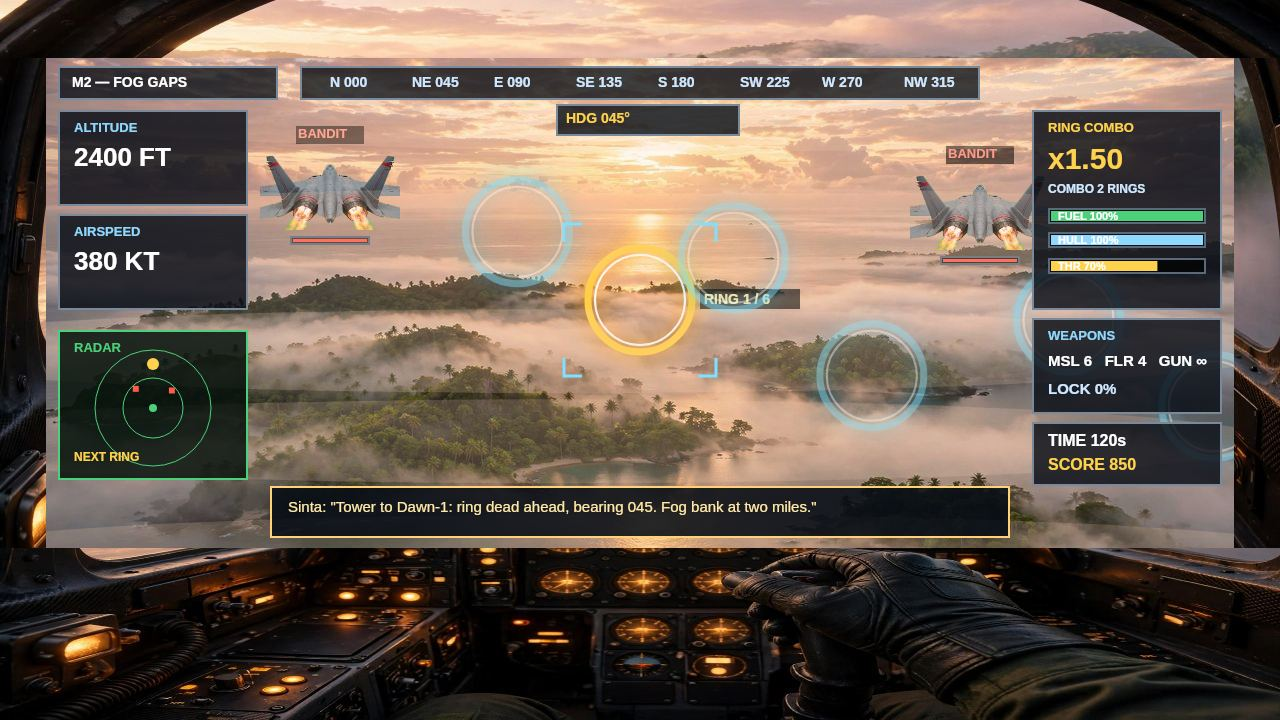
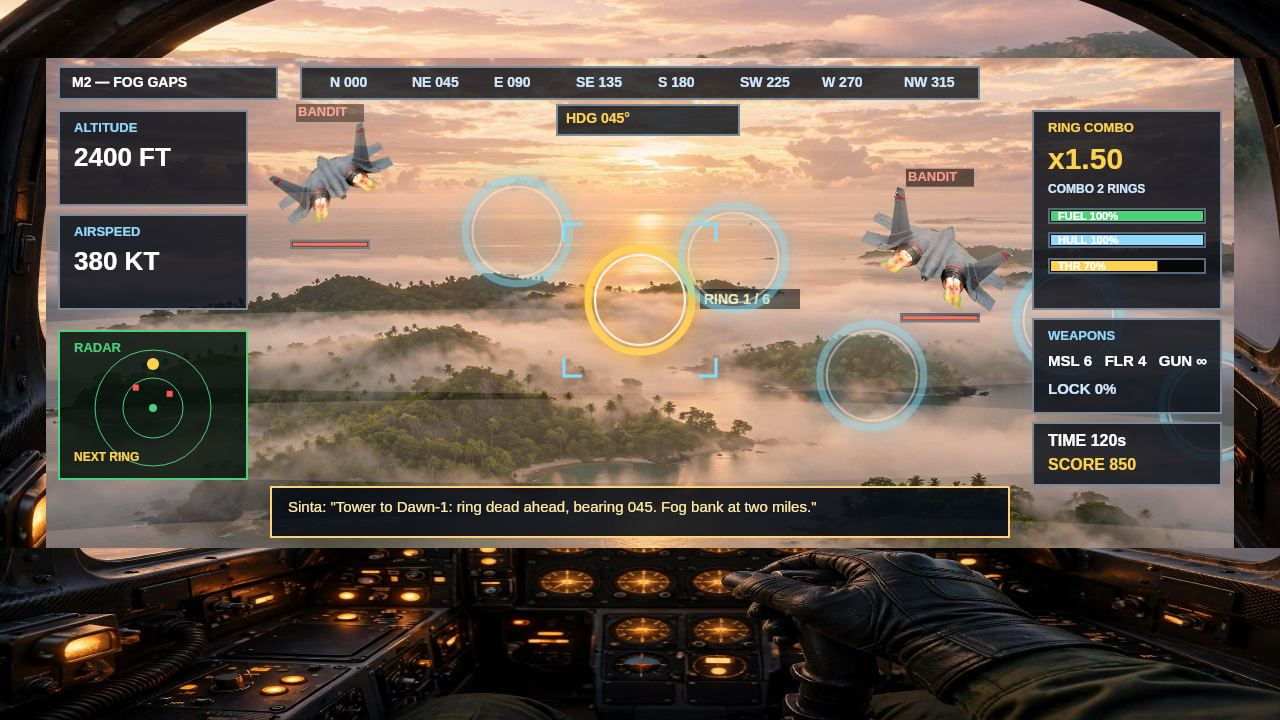
DAWN FALCON — surgical fix 2: distinct bandit poses per shot; shot-3 real battle with big red LOCK-FIRE bracket + missile on a white trail; destroyed bandit fireball stands alone

Changed region(s): [[0.6562, 0.1833, 0.8125, 0.4583], [0.1875, 0.1222, 0.3125, 0.3667]]

diff --git a/game/src/render.js b/game/src/render.js
@@ -88,14 +88,24 @@
       }
       ctx.restore();
     });
-    // enemies
+    // enemies (posed = staged shots only: rot/scale/flip set by shots.js; gameplay enemies draw exactly as before)
     f.enemies.forEach(function (e) {
       if (!e.alive) return;
       var spr = e.ghost ? 'jet-ghost.png' : 'jet-enemy.png';
-      drawImg(ctx, img(spr), e.x - 70, e.y - 40, 140, 80);
-      ctx.fillStyle = 'rgba(0,0,0,0.55)'; ctx.fillRect(e.x - 34, e.y - 64, 68, 18);
-      txt(ctx, e.ghost ? 'GHOST' : 'BANDIT', e.x - 32, e.y - 62, 13, e.ghost ? '#e8e8f2' : '#ff9a8a', 'left', true);
-      bar(ctx, e.x - 40, e.y + 46, 80, 9, e.hp / (e.ghost ? 5 : 2), '#ff5a4a', '');
+      var posed = !!(e.rot || e.scale || e.flip);
+      if (posed) {
+        var sc = e.scale || 1, rot = e.rot || 0, fl = e.flip || 1;
+        ctx.save(); ctx.translate(e.x, e.y); ctx.rotate(rot); ctx.scale(fl * sc, sc);
+        drawImg(ctx, img(spr), -70, -40, 140, 80);
+        ctx.restore();
+      } else drawImg(ctx, img(spr), e.x - 70, e.y - 40, 140, 80);
+      // rotated sprite corners stick out: lift label/bar clear of the sprite, keep label below the compass strip, bar above the dialogue box
+      var lift = posed ? Math.abs(Math.sin(e.rot || 0)) * 36 : 0;
+      var ly = posed ? Math.max(e.y - 64 - lift, 104) : e.y - 64;
+      ctx.fillStyle = 'rgba(0,0,0,0.55)'; ctx.fillRect(e.x - 34, ly, 68, 18);
+      txt(ctx, e.ghost ? 'GHOST' : 'BANDIT', e.x - 32, ly + 2, 13, e.ghost ? '#e8e8f2' : '#ff9a8a', 'left', true);
+      var by = posed ? Math.min(e.y + 46 + lift, 471) : e.y + 46;
+      bar(ctx, e.x - 40, by, 80, 9, e.hp / (e.ghost ? 5 : 2), '#ff5a4a', '');
     });
     // boats
     f.boats.forEach(function (b) {
@@ -104,11 +114,26 @@
       ctx.fillStyle = 'rgba(0,0,0,0.55)'; ctx.fillRect(b.x - 44, b.y - 32, 88, 18);
       txt(ctx, 'RAIDER BOAT', b.x - 42, b.y - 30, 12, '#ff9a8a', 'left', true);
     });
-    // missiles
+    // missiles (staged shot 3: long white trail aimed at the lock target + MISSILE label)
     f.missilesFired.forEach(function (mm) {
-      ctx.strokeStyle = '#fff'; ctx.lineWidth = 2;
-      ctx.beginPath(); ctx.moveTo(mm.x - 26, mm.y + 14); ctx.lineTo(mm.x, mm.y); ctx.stroke();
-      ctx.fillStyle = '#ffd24d'; ctx.beginPath(); ctx.arc(mm.x, mm.y, 5, 0, Math.PI * 2); ctx.fill();
+      if (f.bigLock && mm.target) {
+        var dx = mm.x - mm.target.x, dy = mm.y - mm.target.y, dd = Math.hypot(dx, dy) || 1;
+        var tx = mm.x + dx / dd * 85, ty = mm.y + dy / dd * 85;
+        ctx.save();
+        ctx.strokeStyle = 'rgba(255,255,255,0.35)'; ctx.lineWidth = 6;
+        ctx.beginPath(); ctx.moveTo(tx, ty); ctx.lineTo(mm.x, mm.y); ctx.stroke();
+        ctx.strokeStyle = '#fff'; ctx.lineWidth = 3;
+        ctx.beginPath(); ctx.moveTo(tx, ty); ctx.lineTo(mm.x, mm.y); ctx.stroke();
+        ctx.restore();
+        ctx.fillStyle = '#ffd24d'; ctx.beginPath(); ctx.arc(mm.x, mm.y, 6, 0, Math.PI * 2); ctx.fill();
+        ctx.fillStyle = '#fff'; ctx.beginPath(); ctx.arc(mm.x, mm.y, 3, 0, Math.PI * 2); ctx.fill();
+        ctx.fillStyle = 'rgba(0,0,0,0.6)'; ctx.fillRect(756, 326, 74, 18);
+        txt(ctx, 'MISSILE', 760, 328, 13, '#ffd24d', 'left', true);
+      } else {
+        ctx.strokeStyle = '#fff'; ctx.lineWidth = 2;
+        ctx.beginPath(); ctx.moveTo(mm.x - 26, mm.y + 14); ctx.lineTo(mm.x, mm.y); ctx.stroke();
+        ctx.fillStyle = '#ffd24d'; ctx.beginPath(); ctx.arc(mm.x, mm.y, 5, 0, Math.PI * 2); ctx.fill();
+      }
     });
     // explosions (additive sprite)
     f.explosions.forEach(function (ex) {
@@ -192,14 +217,24 @@
     box(ctx, 1032, 422, 190, 64, 'rgba(8,14,22,0.82)', '#7a8a9a');
     txt(ctx, 'TIME ' + Math.max(0, Math.ceil(f.timeLeft)) + 's', 1048, 434, 16, '#fff', 'left', true);
     txt(ctx, 'SCORE ' + f.score, 1048, 458, 16, '#ffd24d', 'left', true);
-    // lock bracket centre
-    var cx = 640, cy = 300, L = 46 + (1 - f.lock) * 30;
-    ctx.strokeStyle = f.lock >= 1 ? '#ff3b30' : '#7fe0ff'; ctx.lineWidth = 3;
-    [[-1, -1], [1, -1], [-1, 1], [1, 1]].forEach(function (c) {
-      ctx.beginPath(); ctx.moveTo(cx + c[0] * L, cy + c[1] * (L - 18)); ctx.lineTo(cx + c[0] * L, cy + c[1] * L); ctx.lineTo(cx + c[0] * (L - 18), cy + c[1] * L); ctx.stroke();
-    });
-    if (f.lockTarget && f.lockTarget.alive) {
-      txt(ctx, 'LOCK ' + Math.round(f.lock * 100) + '% — ' + Math.round(Math.hypot(f.lockTarget.x - f.px, f.lockTarget.y - f.py)) + 'm', cx - 90, cy - L - 44, 14, f.lock >= 1 ? '#ff5a4a' : '#fff', 'left', true);
+    // lock bracket centre (staged shot 3: big red LOCK-FIRE bracket on the target; otherwise the standard centre bracket)
+    if (f.bigLock && f.lockTarget && f.lockTarget.alive) {
+      var bx = f.lockTarget.x, byy = f.lockTarget.y, BL = 80;
+      ctx.strokeStyle = '#ff3b30'; ctx.lineWidth = 4;
+      [[-1, -1], [1, -1], [-1, 1], [1, 1]].forEach(function (c) {
+        ctx.beginPath(); ctx.moveTo(bx + c[0] * BL, byy + c[1] * (BL - 26)); ctx.lineTo(bx + c[0] * BL, byy + c[1] * BL); ctx.lineTo(bx + c[0] * (BL - 26), byy + c[1] * BL); ctx.stroke();
+      });
+      ctx.fillStyle = 'rgba(0,0,0,0.65)'; ctx.fillRect(bx - 140, byy - BL - 34, 280, 26);
+      txt(ctx, '◆ LOCK 100% — FIRE ◆', bx, byy - BL - 28, 20, '#ff3b30', 'center', true);
+    } else {
+      var cx = 640, cy = 300, L = 46 + (1 - f.lock) * 30;
+      ctx.strokeStyle = f.lock >= 1 ? '#ff3b30' : '#7fe0ff'; ctx.lineWidth = 3;
+      [[-1, -1], [1, -1], [-1, 1], [1, 1]].forEach(function (c) {
+        ctx.beginPath(); ctx.moveTo(cx + c[0] * L, cy + c[1] * (L - 18)); ctx.lineTo(cx + c[0] * L, cy + c[1] * L); ctx.lineTo(cx + c[0] * (L - 18), cy + c[1] * L); ctx.stroke();
+      });
+      if (f.lockTarget && f.lockTarget.alive) {
+        txt(ctx, 'LOCK ' + Math.round(f.lock * 100) + '% — ' + Math.round(Math.hypot(f.lockTarget.x - f.px, f.lockTarget.y - f.py)) + 'm', cx - 90, cy - L - 44, 14, f.lock >= 1 ? '#ff5a4a' : '#fff', 'left', true);
+      }
     }
     // warning lights are drawn just below the compass strip (see above)
     // dialogue bar (above cockpit panel, clear of edges)

diff --git a/game/src/shots.js b/game/src/shots.js
@@ -16,13 +16,15 @@
     f.comboMult = opts.combo || 1.0; f.comboCount = opts.comboCount || 0;
     f.score = opts.score || 0;
     if (opts.ringAhead) { var r = f.rings[0]; r.x = 640; r.y = 300; f.ringIdx = 0; }
-    if (opts.lock) { f.lock = 1; f.lockTarget = f.enemies[0] || null; if (f.lockTarget) { f.lockTarget.x = 640; f.lockTarget.y = 300; } }
+    if (opts.lock) { f.lock = 1; f.lockTarget = f.enemies[0] || null; if (f.lockTarget) { f.lockTarget.x = 640; f.lockTarget.y = 270; } }
+    if (opts.bigLock) f.bigLock = true; // staged shot 3: big red LOCK-FIRE bracket on the target
     if (opts.missile && f.lockTarget) {
-      f.missilesFired.push({ x: 560, y: 380, vx: 500, vy: -260, life: 4, target: f.lockTarget });
+      var mp = opts.missilePos || [560, 380];
+      f.missilesFired.push({ x: mp[0], y: mp[1], vx: -683, vy: -228, life: 4, target: f.lockTarget });
     }
-    if (opts.enemyPos) f.enemies.forEach(function (e, i) { if (opts.enemyPos[i]) { e.x = opts.enemyPos[i][0]; e.y = opts.enemyPos[i][1]; } });
+    if (opts.enemyPos) f.enemies.forEach(function (e, i) { if (opts.enemyPos[i]) { e.x = opts.enemyPos[i][0]; e.y = opts.enemyPos[i][1]; if (opts.enemyPos[i][2] !== undefined) e.rot = opts.enemyPos[i][2]; if (opts.enemyPos[i][3] !== undefined) e.scale = opts.enemyPos[i][3]; if (opts.enemyPos[i][4] !== undefined) e.flip = opts.enemyPos[i][4]; } });
     if (opts.escortPos && f.escort) { f.escort.x = opts.escortPos[0]; f.escort.y = opts.escortPos[1]; }
-    if (opts.explosion) f.explosions.push({ x: 340, y: 180, t: 0.4, big: false }); // destroyed top-left bandit — far from the escort seaplane (900,170)
+    if (opts.explosion) { f.explosions.push({ x: 340, y: 180, t: 0.4, big: false }); if (f.enemies[1]) f.enemies[1].alive = false; } // destroyed top-left bandit — fireball alone, far from the escort seaplane (900,170)
     if (opts.ghost) { f.enemies.forEach(function (e) { e.x = 700; e.y = 260; }); }
     s.dialogue = opts.dialogue || s.dialogue;
     s.screen = 'flight'; s.paused = false;
@@ -35,16 +37,16 @@
       s.grades = { 0: 'S', 1: 'A', 2: 'B', 3: 'A', 4: 'B' }; s.scores = { 0: 2100, 1: 1800, 2: 1500, 3: 1900, 4: 1700 };
       if (shot === '1') {
         stageFlight(1, { view: 'cockpit', ringAhead: true, combo: 1.5, comboCount: 2, score: 850,
-          enemyPos: [[330, 190], [980, 210]],
+          enemyPos: [[330, 175, -0.55, 0.85, 1], [940, 250, 0.5, 1.05, -1]],
           dialogue: 'Sinta: "Tower to Dawn-1: ring dead ahead, bearing 045. Fog bank at two miles."' });
       } else if (shot === '2') {
         stageFlight(1, { view: 'chase', ringAhead: true, combo: 2.0, comboCount: 4, score: 1400, py: 370,
-          enemyPos: [[330, 190], [980, 210]],
+          enemyPos: [[320, 380, 0.55, 0.8, -1], [950, 175, -0.5, 0.95, 1]],
           dialogue: 'Yoga: "Ring dead ahead, Dawn-1! Punch the burner and take it!"' });
         var f2 = s.flight; f2.rings[0].x = 640; f2.rings[0].y = 330; f2.py = 370;
       } else if (shot === '3') {
-        stageFlight(4, { view: 'chase', lock: true, missile: true, explosion: true, combo: 2.5, comboCount: 6, score: 2300, py: 380,
-          enemyPos: [[640, 300], [340, 180], [1080, 180], [330, 430], [950, 430]],
+        stageFlight(4, { view: 'chase', lock: true, bigLock: true, missile: true, missilePos: [730, 300], explosion: true, combo: 2.5, comboCount: 6, score: 2300, py: 380,
+          enemyPos: [[640, 270, 0.35, 1.05, 1], [340, 180], [460, 385, -0.7, 0.8, 1], [330, 420, -0.6, 0.85, -1], [950, 420, -0.35, 0.9, -1]],
           escortPos: [900, 170],
           dialogue: 'Ratna: "Weapons free, Dawn-1. Protect the seaplane — Ghost is out there."' });
       } else if (shot === '4') { // home/base screen: hangar at dawn with jet, loadout, crew, 3 save slots
